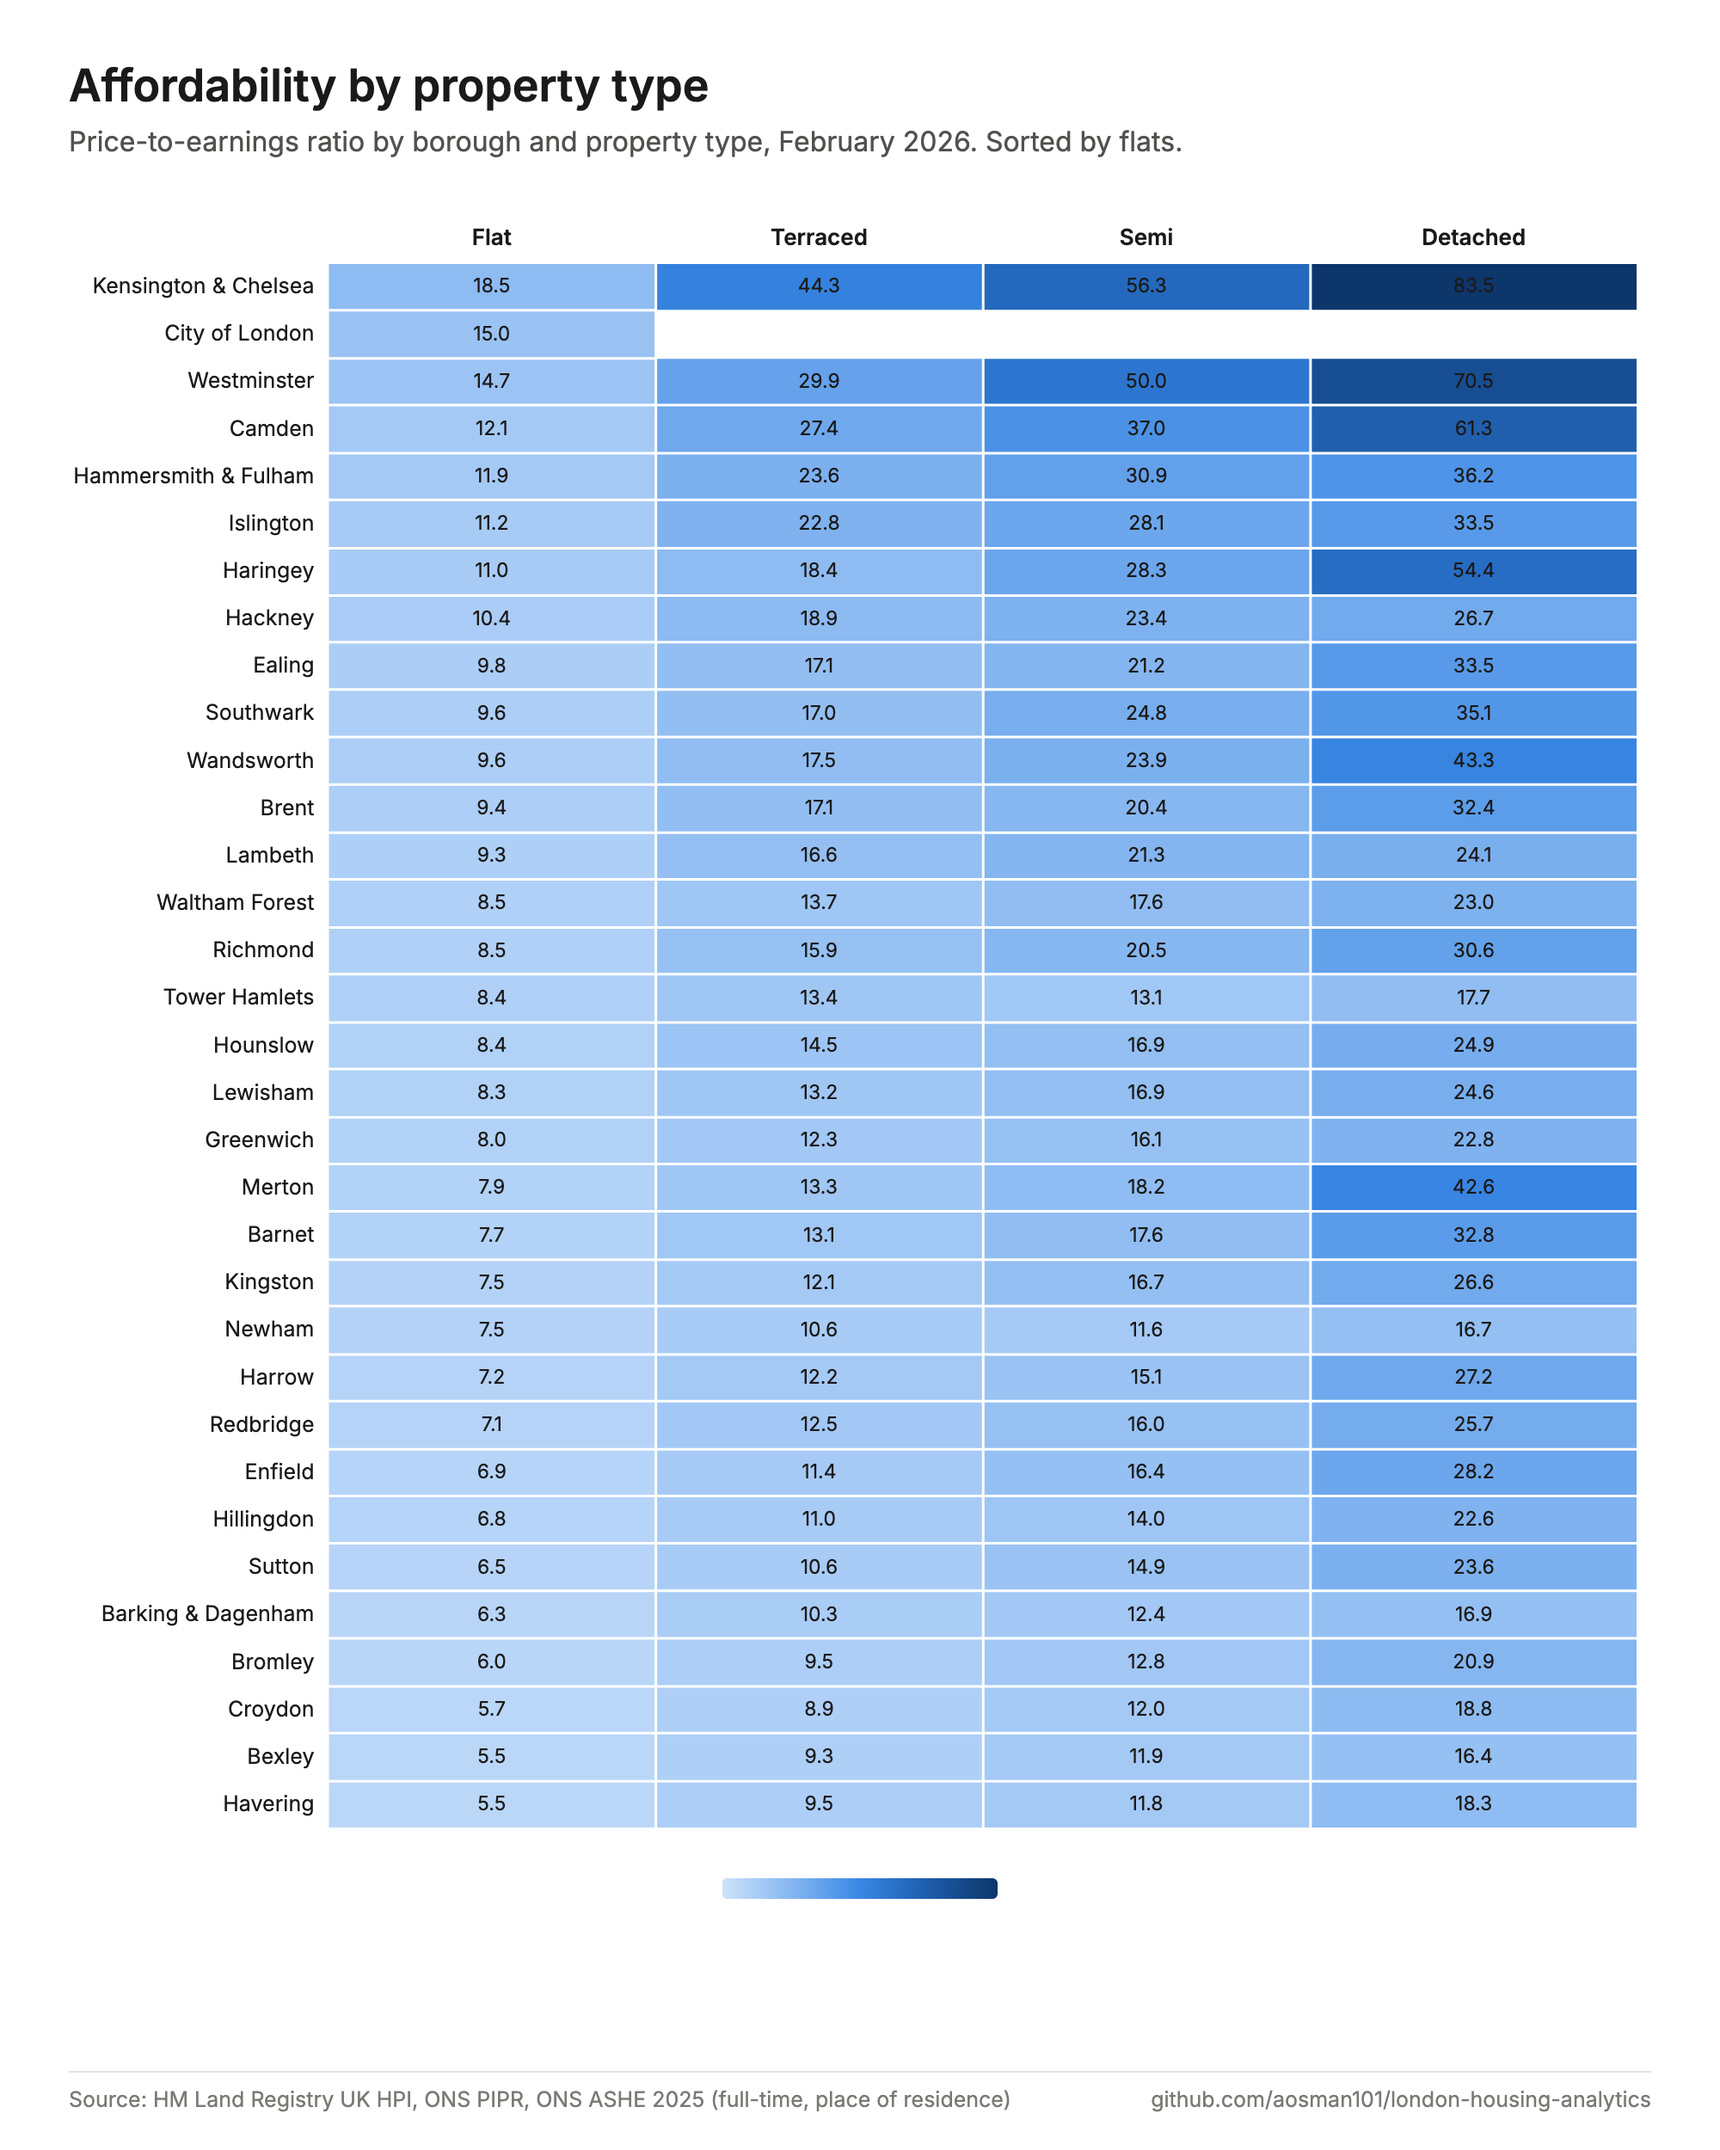
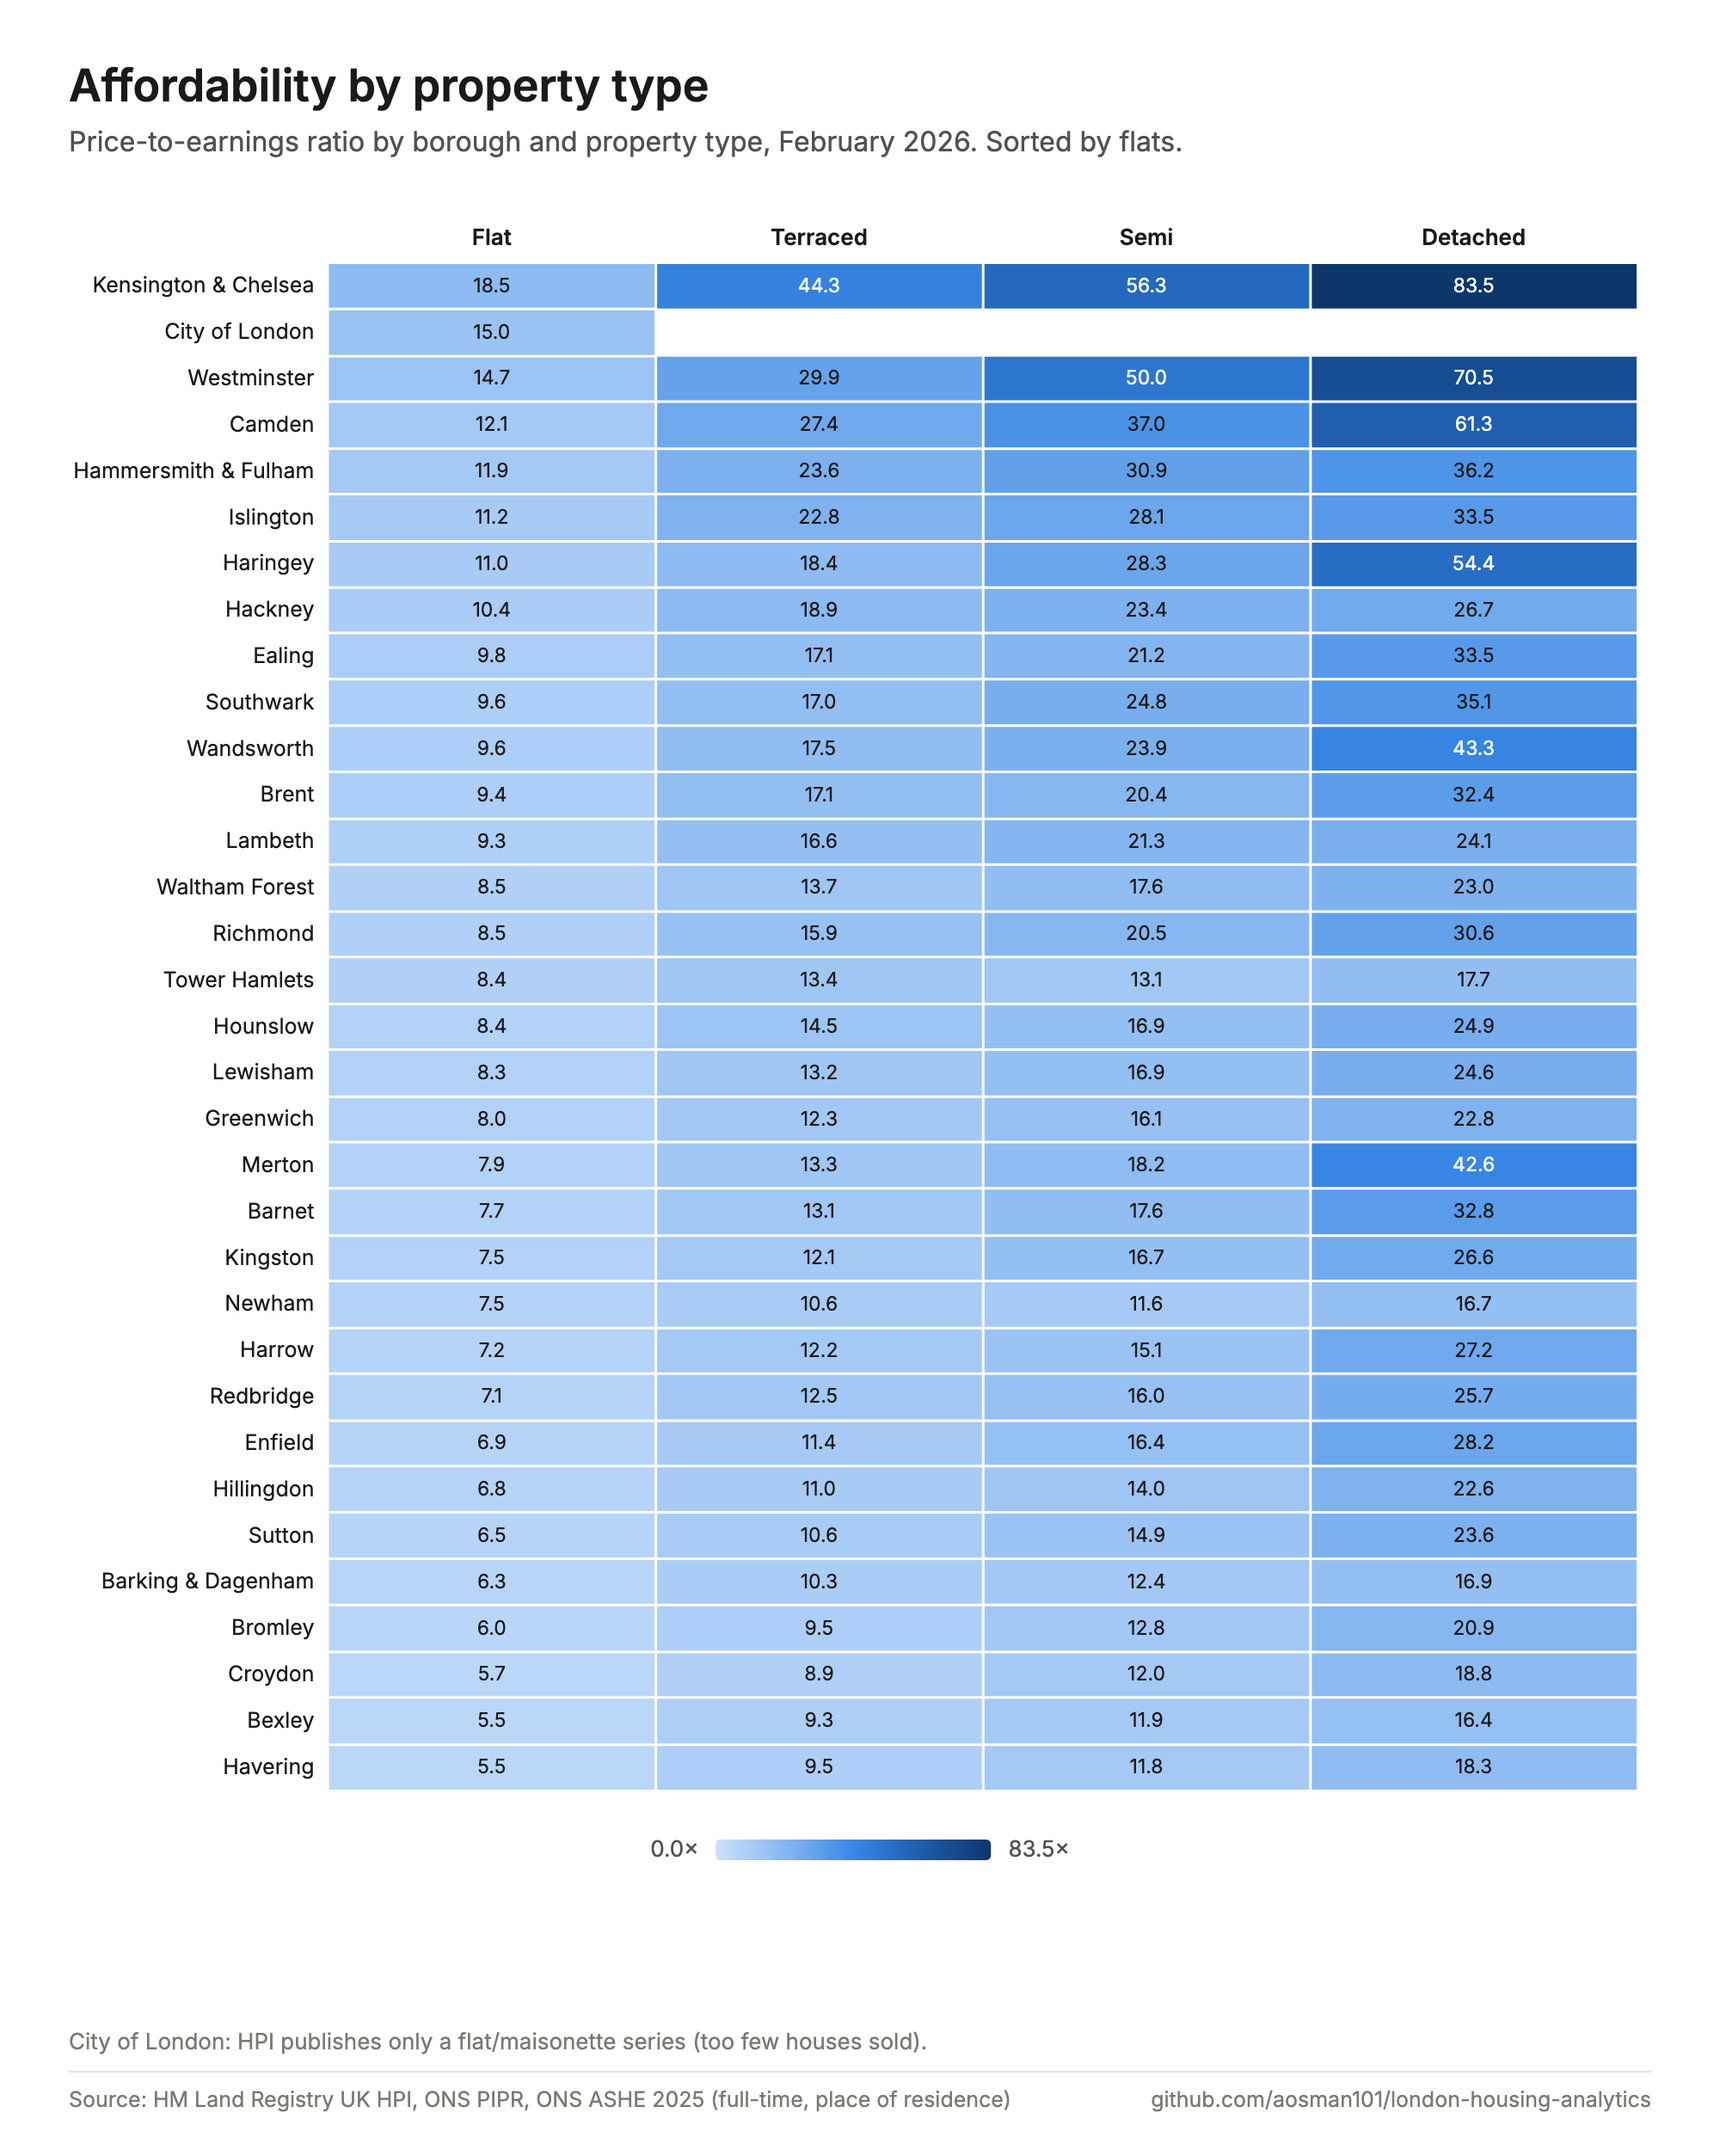
Update rent vs price growth visualization and remove outdated property type heatmap image

diff --git a/housing-analytics/dashboard/index.html b/housing-analytics/dashboard/index.html
@@ -412,7 +412,7 @@ V.rentvsprice = {
     series.push({ type: 'line', data: [[lo, lo], [hi, hi]], showSymbol: false, silent: true, lineStyle: { color: C.ink3, type: 'dashed', width: 1 }, tooltip: { show: false } });
     return {
       textStyle: baseText(), animation: ANIM, legend: legend({ data: Object.keys(GROUP_C) }),
-      grid: { left: 8, right: 24, top: 30, bottom: 30, containLabel: true },
+      grid: { left: 34, right: 24, top: 30, bottom: 30, containLabel: true },
       tooltip: tooltip({ trigger: 'item', formatter: p => p.data.code ? `<b>${byCode[p.data.code].area_name}</b><br>Rent ${F.spct(p.value[1], 0)} · Price ${F.spct(p.value[0], 0)}` : '' }),
       xAxis: valueAxis({ min: lo, max: hi, name: 'House price growth since Jan 2015', nameLocation: 'middle', nameGap: 26, axisLabel: { formatter: v => v + '%', color: C.ink2, fontSize: fs() } }),
       yAxis: valueAxis({ min: 0, max: hi, name: 'Rent growth since Jan 2015', nameLocation: 'middle', nameGap: 40, axisLabel: { formatter: v => v + '%', color: C.ink2, fontSize: fs() } }),
@@ -498,22 +498,25 @@ V.drawdown = {
 V.heatmap = {
   title: () => 'Affordability by property type',
   desc: () => `Price-to-earnings ratio by borough and property type, ${K.latest_month}. Sorted by flats.`,
+  foot: () => 'City of London: HPI publishes only a flat/maisonette series (too few houses sold).',
   option: () => {
     const types = ['Flat/Maisonette', 'Terraced', 'Semi-detached', 'Detached'];
     const pt = D.propertyTypes.filter(r => inScope(byCode[r.area_code]));
     const flat = Object.fromEntries(pt.filter(r => r.property_type === types[0]).map(r => [r.area_code, r.price_to_earnings_ratio]));
     const codes = [...new Set(pt.map(r => r.area_code))].sort((a, b) => flat[a] - flat[b]);
     const vals = pt.map(r => r.price_to_earnings_ratio);
+    const lo = Math.min(...vals), hi = Math.max(...vals);
     return {
       textStyle: baseText(), animation: ANIM, grid: { left: 8, right: 8, top: 26, bottom: 46, containLabel: true },
       tooltip: tooltip({ formatter: p => `<b>${byCode[codes[p.value[1]]].area_name}</b><br>${types[p.value[0]]}: ${F.x(p.value[2])}` }),
       xAxis: catAxis({ data: ['Flat', 'Terraced', 'Semi', 'Detached'], position: 'top', axisLine: { show: false }, axisLabel: { color: C.ink, fontSize: fs(), fontWeight: 600 } }),
       yAxis: catAxis({ data: codes.map(c => short(byCode[c].area_name)), axisLine: { show: false }, axisLabel: { color: C.ink, fontSize: fs() - 0.5, interval: 0 } }),
-      visualMap: { min: Math.min(...vals), max: Math.max(...vals), orient: 'horizontal', left: 'center', bottom: 0, itemWidth: 12, itemHeight: 160,
+      visualMap: { min: lo, max: hi, text: [F.x(hi), F.x(lo)], orient: 'horizontal', left: 'center', bottom: 0, itemWidth: 12, itemHeight: 160,
         inRange: { color: C.seq }, textStyle: { color: C.ink2, fontSize: fs() }, formatter: v => v.toFixed(0) + '×', calculable: !EXPORT },
       series: [{ type: 'heatmap', itemStyle: { borderColor: '#fff', borderWidth: 1.5 },
-        label: { show: true, fontSize: fs() - 1.5, formatter: p => p.value[2].toFixed(1), color: C.ink },
-        data: pt.map(r => [types.indexOf(r.property_type), codes.indexOf(r.area_code), r.price_to_earnings_ratio]),
+        label: { show: true, fontSize: fs() - 1.5, formatter: p => p.value[2].toFixed(1) },
+        data: pt.map(r => ({ value: [types.indexOf(r.property_type), codes.indexOf(r.area_code), r.price_to_earnings_ratio],
+          label: { color: (r.price_to_earnings_ratio - lo) / (hi - lo) > 0.5 ? '#fff' : C.ink } })),
         emphasis: { itemStyle: { borderColor: C.ink, borderWidth: 1.5 } } }],
     };
   },
